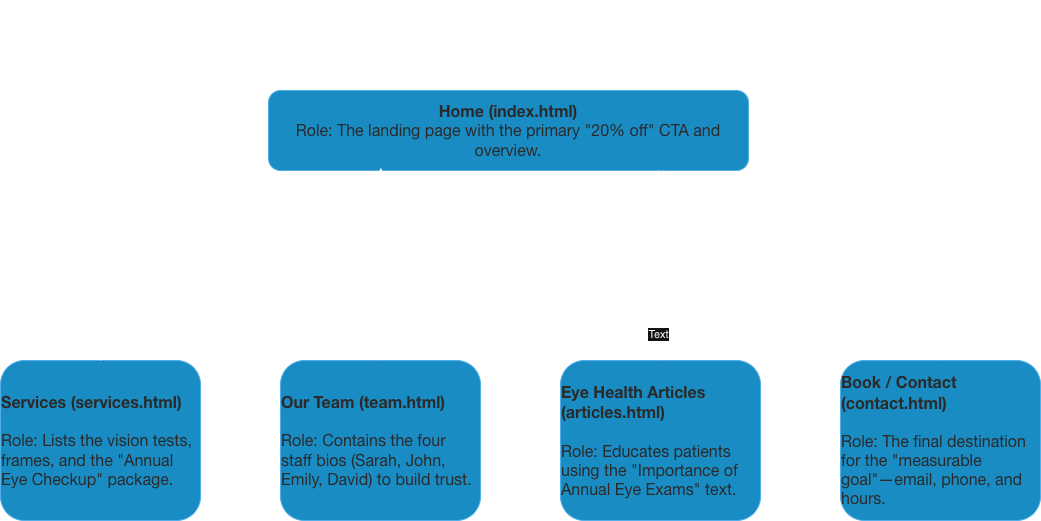
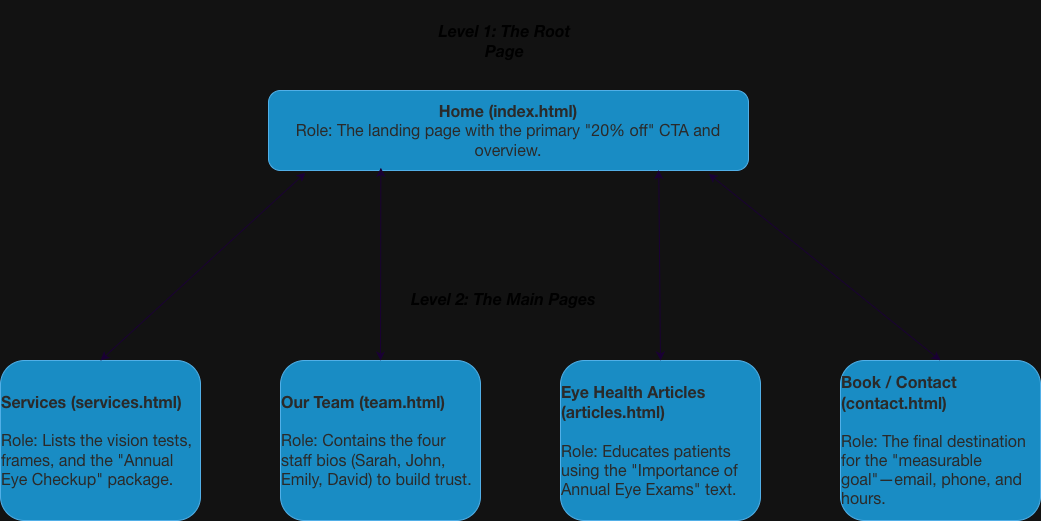
replce sitemap image

diff --git a/Assignment 1/plan.html b/Assignment 1/plan.html
@@ -85,7 +85,7 @@
   <h2>Site Flowchart</h2>
   <p>The following flowchart illustrates the 5-page hierarchical structure of the website, ensuring a logical flow from
     the Home page to specific service and contact information.</p>
-  <img src="images/sitemap_assessment_2"
+  <img src="images/sitemap_assessment_2.png"
     alt="Site flowchart.">
 
 </body>
